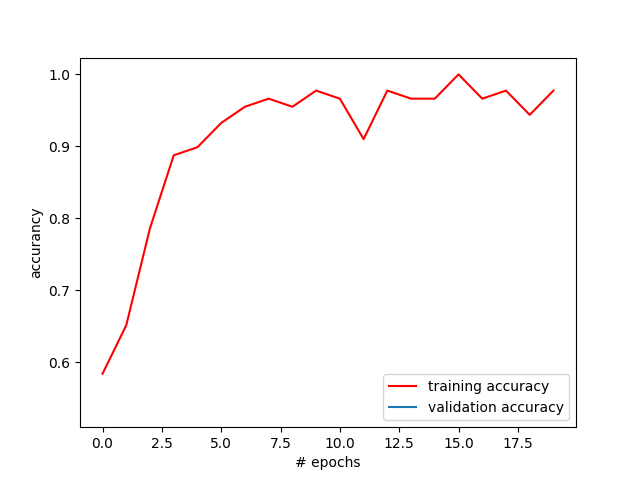
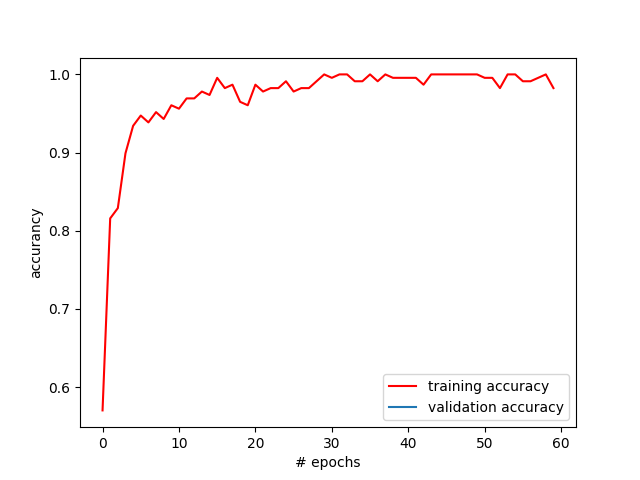
version 1.2 de la cnn

diff --git a/test_model.py b/test_model.py
@@ -14,8 +14,8 @@ model_path = './model/model.json'
 weights_model_path = './model/weights.h5'
 
 # Path de imagenes de prueba
-path_dogs = './data/train/dogs'
-path_gardens = './data/train/gardens'
+path_dogs = './data/test/dogs'
+path_gardens = './data/test/gardens'
 
 print("Carga del modelo de prediccion")
 
@@ -38,15 +38,18 @@ cnn.compile(loss='categorical_crossentropy',
 
 
 # SHOW RESULT
-list_file_with = os.listdir(path_dogs)
-list_file_without = os.listdir(path_gardens)
+list_file_dogs = os.listdir(path_dogs)
+list_file_gardens = os.listdir(path_gardens)
 
-fig = plt.figure(figsize=(14, 14))
+# fig = plt.figure(figsize=(14, 14))
 
-# se obtienen cinco imagenes de perros
-for index, filename in enumerate(list_file_with[:5]):
+print("Perros => ")
+
+# se obtienen las imagenes de perros y se muestran las que son detectados como jardines
+for index, filename in enumerate(list_file_dogs):
+
+    # se forma el path completo de la imagen
     path_img = os.path.join(path_dogs, filename)
-    y = fig.add_subplot(6, 5, index+1)
 
     # se obtiene la imagen
     img_color = cv2.imread(path_img, cv2.IMREAD_COLOR) #RBG Level
@@ -62,34 +65,46 @@ for index, filename in enumerate(list_file_with[:5]):
     else:
         str_label = 'pred: Jadin'
 
-    # se muestra la imagen junto con su leyenda
-    y.imshow(img_color)
-    plt.title(str_label)
-    y.axes.get_xaxis().set_visible(False)
-    y.axes.get_yaxis().set_visible(False)
+    if str_label == 'pred: Jadin':
+        print(path_img)
+        # y = fig.add_subplot(6, 5, index+1)
+        
+        # y.imshow(img_color)
+        # plt.title(str_label)
+        # y.axes.get_xaxis().set_visible(False)
+        # y.axes.get_yaxis().set_visible(False)
 
-# se obtienen cinco imagenes de jardines
-for index, filename in enumerate(list_file_without[:5]):
+
+print("Jardines => ")
+
+# se obtienen las imagenes de jardines y se muestran las que son detectados como perros
+for index, filename in enumerate(list_file_gardens):
+
+    # se forma el path completo de la imagen
     path_img = os.path.join(path_gardens, filename)
-    y = fig.add_subplot(6, 5, index+6)
 
+    # print(filename)
     # se obtiene la imagen
     img_color = cv2.imread(path_img, cv2.IMREAD_COLOR) #RBG Level
-    img_pixel = cv2.resize(img_color, (height, length)) #64 x 64 pixel
+    img_pixel = cv2.resize(img_color, (height, length)) #150 x 150 pixel
     
     # se convierte la imagen a matriz y se realiza la evaluacion
     data = img_pixel.reshape(1, height, length, 3)
     model_out = cnn.predict([data])
-    
+
     # se establece la leyenda de salida
     if np.argmax(model_out) == 0:
         str_label = 'pred: Perro'
     else:
         str_label = 'pred: Jardin'
 
-    y.imshow(img_color)
-    plt.title(str_label)
-    y.axes.get_xaxis().set_visible(False)
-    y.axes.get_yaxis().set_visible(False)
+    if str_label == 'pred: Perro':
+        print(path_img)
+        # y = fig.add_subplot(6, 5, index+6)
 
-plt.show()
+        # y.imshow(img_color)
+        # plt.title(str_label)
+        # y.axes.get_xaxis().set_visible(False)
+        # y.axes.get_yaxis().set_visible(False)
+
+# plt.show()

diff --git a/confusion_matrix.py b/confusion_matrix.py
@@ -38,6 +38,8 @@ cnn.compile(loss='categorical_crossentropy',
             optimizer=Adam(lr=lr),
             metrics=['accuracy'])
 
+cnn.summary()
+
 # informacion para la generacion de la matriz
 test_imgs, test_labels = next(test_batches)
 test_labels = test_labels[:,0]
@@ -49,4 +51,4 @@ cm = confusion_matrix(test_labels, predictions[:,0])
 fig, ax = plot_confusion_matrix(conf_mat=cm, figsize=(14,14), class_names=('dogs', 'gardens'))
 plt.show()
 # se guarda el grafico de la matriz generada
-fig.savefig('./model/conf_matrix.png')
+fig.savefig('/home/guillermo/Documents/dev_python/ia-tp2/model/conf_matrix.png')

diff --git a/generate_model.py b/generate_model.py
@@ -22,9 +22,9 @@ target_dir = './model/'
 
 # Parametros de Entrenamiento
 
-epochs = 20
+epochs = 60
 length, height = 150, 150
-batch_size = 15 #32
+batch_size = 15
 validation_steps = 30
 Conv1_filters = 32
 Conv2_filters = 64
